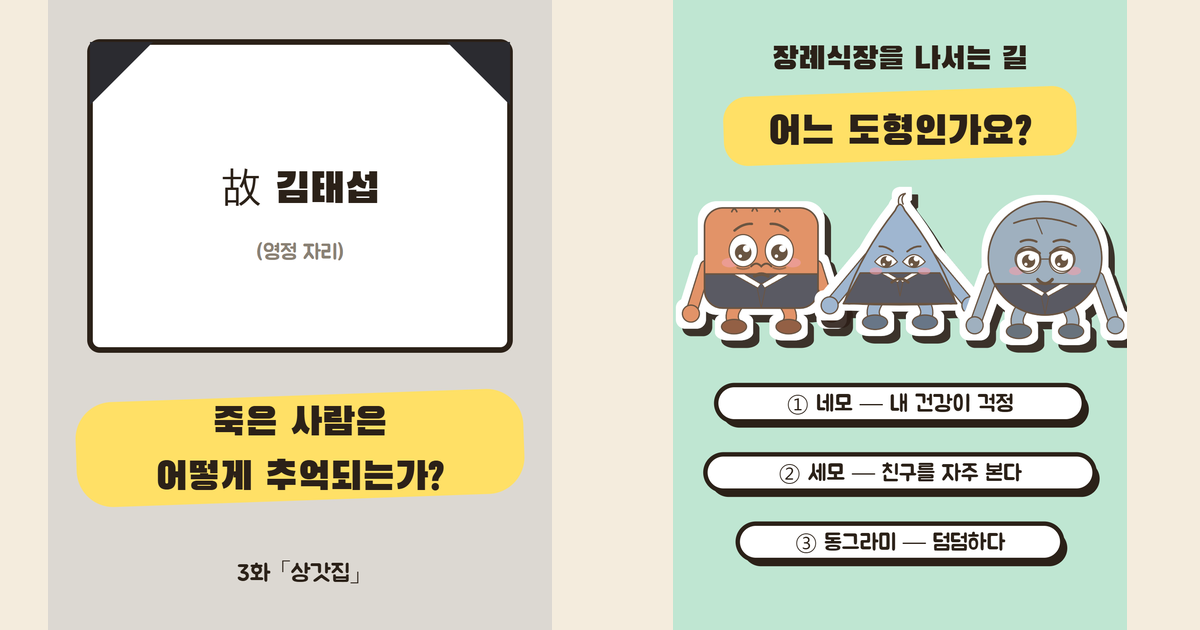
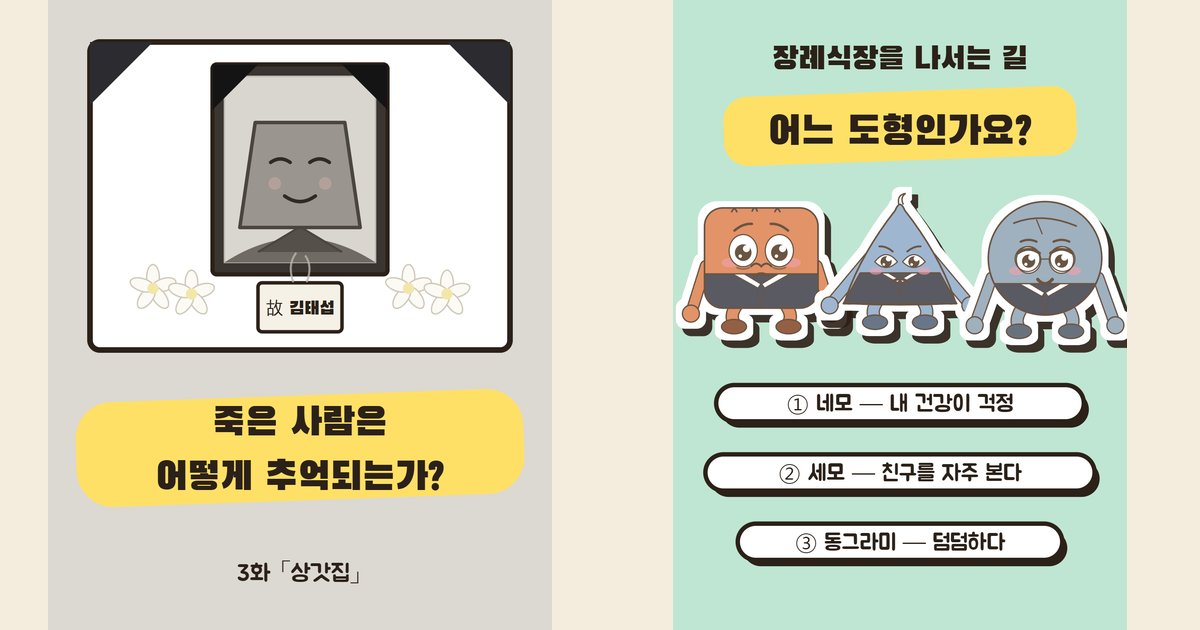
site: 웹툰 사이트 2026-10-21

Changed region(s): [[0.1233, 0.0905, 0.4008, 0.5429]]

diff --git a/ep03.html b/ep03.html
@@ -680,8 +680,21 @@ const env = (cx, cy, w, label) => { const h = w * 0.64;
 cut(900, `
   <rect x="60" y="60" width="600" height="440" rx="14" fill="#fff" stroke="${INK2}" stroke-width="8"/>
   <path d="M60,60 L150,60 L60,150 Z M660,60 L570,60 L660,150 Z" fill="#2b2b30"/>
-  ${T(W / 2, 290, '故 김태섭', 60, { font: HEAD })}
-  ${T(W / 2, 370, '(영정 자리)', 30, { fill: '#8a8174' })}
+  <!-- 영정: 흑백 사진 액자 + 국화 + 위패 (가상) -->
+  <rect x="235" y="92" width="250" height="300" rx="6" fill="#3a3530" stroke="${INK2}" stroke-width="6"/>
+  <rect x="252" y="109" width="216" height="266" fill="#d9d6d0"/>
+  <rect x="252" y="109" width="216" height="266" fill="url(#none)" stroke="#bdb8b0" stroke-width="2"/>
+  <path d="M252,375 q108,-70 216,0 Z" fill="#6f6a64"/>
+  <path d="M300,360 l60,-36 l60,36" fill="#55504a" stroke="#4a4540" stroke-width="3"/>
+  <path d="M296,175 h128 l22,150 h-172 Z" fill="#9a958e" stroke="#4a4540" stroke-width="5" stroke-linejoin="round"/>
+  <path d="M318,232 q14,-10 28,0 M374,232 q14,-10 28,0" fill="none" stroke="#2e2a26" stroke-width="5" stroke-linecap="round"/>
+  <path d="M338,280 q22,16 44,0" fill="none" stroke="#2e2a26" stroke-width="5" stroke-linecap="round"/>
+  <circle cx="324" cy="262" r="9" fill="#c9a9a4" opacity=".55"/><circle cx="396" cy="262" r="9" fill="#c9a9a4" opacity=".55"/>
+  <path d="M235,92 L300,92 L235,157 Z M485,92 L420,92 L485,157 Z" fill="#141414"/>
+  ${[150, 205, 515, 570].map((x, i) => `<g transform="translate(${x},${i % 2 ? 420 : 412})">${[0, 72, 144, 216, 288].map(a => `<ellipse cx="0" cy="-16" rx="9" ry="18" fill="#fbfaf5" stroke="#cfcab8" stroke-width="2" transform="rotate(${a})"/>`).join('')}<circle r="8" fill="#f2e7a6"/></g>`).join('')}
+  <rect x="300" y="404" width="120" height="70" rx="6" fill="#f6f1e6" stroke="${INK2}" stroke-width="5"/>
+  ${T(W / 2, 449, '故 김태섭', 26, { font: HEAD })}
+  <path d="M350,402 q-8,-24 4,-40 M370,402 q8,-22 -2,-36" fill="none" stroke="#b9b4ab" stroke-width="3" stroke-linecap="round" opacity=".8"/>
   ${hl(W / 2, 640, 640, 150, C.hlY, -2)}
   ${T(W / 2, 622, '죽은 사람은', 56, { font: HEAD })}
   ${T(W / 2, 700, '어떻게 추억되는가?', 56, { font: HEAD })}
@@ -765,9 +778,16 @@ gap(true);
 
 // ── 9 : 네모 한 방 ──
 cut(820, `
-  <rect x="120" y="50" width="480" height="330" rx="12" fill="#fff" stroke="${INK2}" stroke-width="7"/>
-  ${T(W / 2, 120, '건강검진 결과표', 40, { font: HEAD })}
-  <path d="M170,170 h380 M170,220 h380 M170,270 h300" stroke="#c9c0b0" stroke-width="8"/><rect x="170" y="300" width="130" height="40" fill="#ff8c8c" stroke="${INK2}" stroke-width="4"/>
+  <!-- 건강검진 결과통보서 (가상) -->
+  <rect x="80" y="36" width="560" height="372" rx="10" fill="#fff" stroke="${INK2}" stroke-width="7"/>
+  <rect x="80" y="36" width="560" height="52" rx="10" fill="#2f5d8a"/><rect x="80" y="70" width="560" height="18" fill="#2f5d8a"/>
+  ${T(W / 2, 71, '2026 일반건강검진 결과통보서', 26, { font: HEAD, fill: '#fff' })}
+  ${T(96, 116, '수검자  남궁○ (남, 만 51세)    검진일 2026.09.14', 18, { anchor: 'start', fill: '#5a5148' })}
+  ${T(96, 140, '항목', 17, { anchor: 'start', fill: '#8a8174' })}${T(300, 140, '결과', 17, { anchor: 'start', fill: '#8a8174' })}${T(470, 140, '판정', 17, { anchor: 'start', fill: '#8a8174' })}
+  <rect x="92" y="150" width="536" height="34" fill="#f7f3ec"/>${T(100, 173, '혈압', 19, { anchor: 'start' })}${T(300, 173, '138/89 mmHg', 19, { anchor: 'start' })}${T(470, 173, '경계', 18, { anchor: 'start', fill: '#8a6d2f' })}<rect x="92" y="184" width="536" height="34" fill="#fff"/>${T(100, 207, '공복혈당', 19, { anchor: 'start' })}${T(300, 207, '118 mg/dL', 19, { anchor: 'start' })}${T(470, 207, '공복혈당장애 의심', 18, { anchor: 'start', fill: '#d63b3b' })}<rect x="92" y="218" width="536" height="34" fill="#f7f3ec"/>${T(100, 241, '총콜레스테롤', 19, { anchor: 'start' })}${T(300, 241, '241 mg/dL', 19, { anchor: 'start' })}${T(470, 241, '고콜레스테롤혈증 의심', 18, { anchor: 'start', fill: '#d63b3b' })}<rect x="92" y="252" width="536" height="34" fill="#fff"/>${T(100, 275, '간기능 γ-GTP', 19, { anchor: 'start' })}${T(300, 275, '78 U/L', 19, { anchor: 'start' })}${T(470, 275, '경계', 18, { anchor: 'start', fill: '#8a6d2f' })}<rect x="92" y="286" width="536" height="34" fill="#f7f3ec"/>${T(100, 309, '체질량지수', 19, { anchor: 'start' })}${T(300, 309, '26.4 kg/㎡', 19, { anchor: 'start' })}${T(470, 309, '비만 1단계', 18, { anchor: 'start', fill: '#d63b3b' })}<rect x="92" y="320" width="536" height="34" fill="#fff"/>${T(100, 343, '위내시경', 19, { anchor: 'start' })}${T(300, 343, '만성 위축성 위염', 19, { anchor: 'start' })}${T(470, 343, '1년 뒤 추적', 18, { anchor: 'start', fill: '#8a6d2f' })}
+  <rect x="92" y="358" width="536" height="40" fill="#fff1f0" stroke="#d63b3b" stroke-width="3"/>
+  ${T(104, 385, '종합판정  질환 의심 — 2차 검진 필요', 22, { anchor: 'start', font: HEAD, fill: '#d63b3b' })}
+  <g transform="translate(575,370) rotate(-12)"><circle r="34" fill="none" stroke="#d63b3b" stroke-width="4"/>${T(0, 7, '재검', 22, { font: HEAD, fill: '#d63b3b' })}</g>
   ${sticker(nemoDad({ x: 255, y: 420, w: 210, h: 186, emo: 'sad', suit: true }))}
   ${hl(W / 2, 700, 640, 110, C.hlY, -2)}
   ${T(W / 2, 722, '아. 난 진짜 아프면 안 되는데.', 46, { font: HEAD })}
